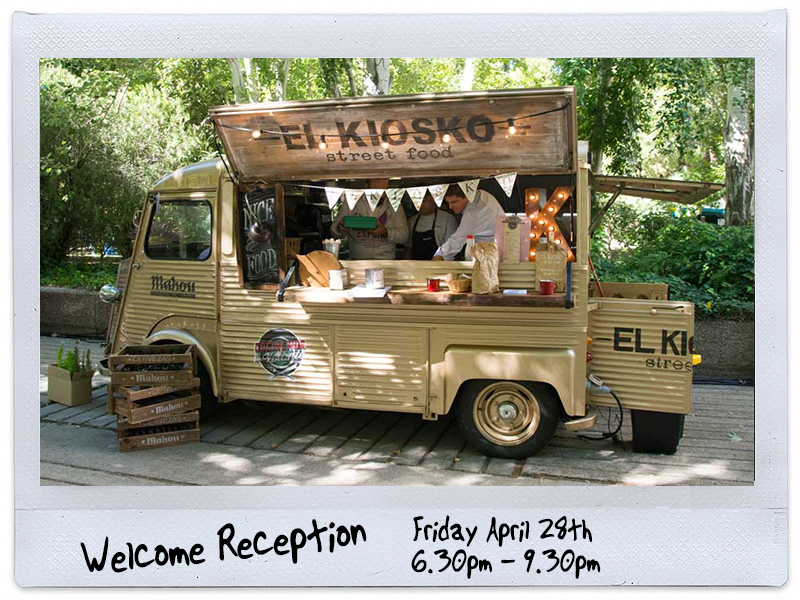
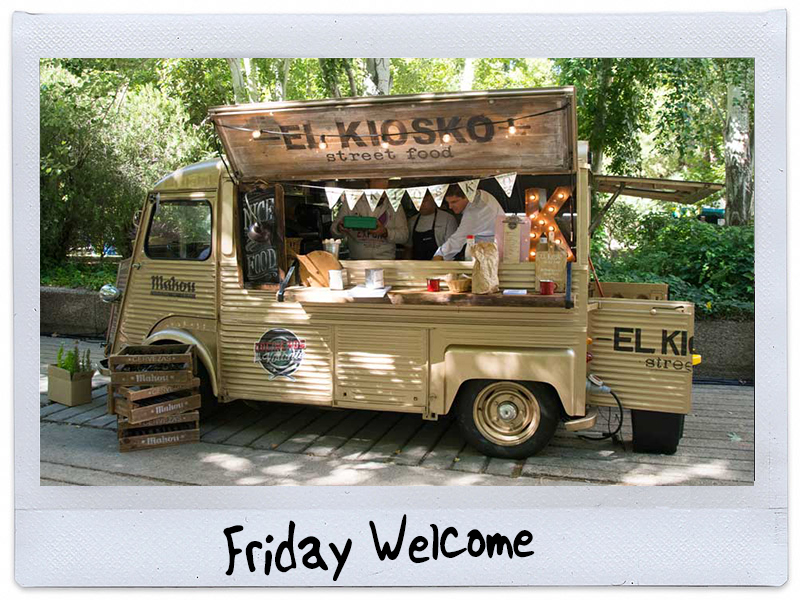
modify other.html

Changed region(s): [[0.0938, 0.84, 0.75, 0.96]]

diff --git a/en/other.html b/en/other.html
@@ -87,14 +87,33 @@
 	
     <!-- Page Content -->
     <div class="container cactus-baskerville">
-		
-        <div class="col-md-6 col-sm-12" style="padding-top: 30px;">
+	  <div class="row text-center"  style="padding: 25px;">
+	      <img id="friday-sign-small" class="hidden" src="../img/fridaySignSmall.jpg">		  	      
+		  <img id="friday-sign-big" src="../img/fridaySignBig.jpg">
+	      <img id="sunday-sign-small" src="../img/sundaySignSmall.jpg">		  	      
+		  <img id="sunday-sign-big" class="hidden" src="../img/sundaySignBig.jpg">
+		  
+	  </div>
+	  <div id="friday" class="row" style="padding: 25px;">	
+        <div class="col-md-6 col-sm-12 text-center" style="padding: 50px;">
+		    <p class="cactus-futura" style="font-size: 28px;"><strong>WELCOME RECEPTION</strong></p>	
+			<p style="padding-top:10px;">If you will be in the Austin area Friday evening, join us at the River House for <a target="_blank" href="http://www.huffingtonpost.com/one-for-the-table/a-look-at-austins-food-tr_b_2861623.html">food truck</a> fare, drinks and lawn games.</p>
+		    <p class="cactus-futura" style="font-size: 20px; padding-top: 15px;">FRIDAY, APRIL 28TH</br>6.30pm - 9.30pm</p></br>				
+		</div>
+        <div class="col-md-6 col-sm-12">
 			<img src="../img/foodtruck.jpg" width="100%"></img>
-			<p class="text-center" style="padding-top:10px;">If you will be in the Austin area Friday evening, join us at the River House for <a target="_blank" href="http://www.huffingtonpost.com/one-for-the-table/a-look-at-austins-food-tr_b_2861623.html">food truck</a> fare, drinks and games.</p>
-        </div>
+        </div>		
+	  </div>	
+		
+	  <div id="sunday" class="row hidden" style="padding: 25px;">			
+        <div class="col-md-6 col-sm-12 text-center" style="padding: 50px;">
+		    <p class="cactus-futura" style="font-size: 28px;"><strong>SUNDAY BRUNCH</strong></p>	
+			<p style="padding-top:10px;">No one should leave Austin without trying our iconic native food - <a target="_blank" href="http://austin.eater.com/2016/2/19/11060078/breakfast-taco-austin-history">breakfast tacos!</a> Sunday morning we'll have breakfast tacos and coffee at the River House.</p>
+		    <p class="cactus-futura" style="font-size: 20px; padding-top: 15px;">SUNDAY, APRIL 30TH</br>10am - 12am</p>	
+		</div>	  
         <div class="col-md-6 col-sm-12">
 			<img src="../img/breakfastTacos.jpg" height="100%"></img>		
-			<p class="text-center">No one should leave Austin without trying our iconic native food - <a target="_blank" href="http://austin.eater.com/2016/2/19/11060078/breakfast-taco-austin-history">breakfast tacos!</a> Sunday morning we'll have breakfast tacos and coffee at the River House.</p>
+			<p class="text-center"></p>
         </div>
 		
     </div>
@@ -112,6 +131,27 @@
     <!-- Bootstrap Core JavaScript -->
     <script src="../js/bootstrap.min.js"></script>
 
+    <script>
+	    $("#sunday-sign-small").mouseover(function () {
+			$("#friday-sign-small").removeClass("hidden");
+			$("#sunday-sign-big").removeClass("hidden");			
+			$("#friday-sign-big").addClass("hidden");			
+			$("#sunday-sign-small").addClass("hidden");	
+			$("#friday").addClass("hidden");			
+			$("#sunday").removeClass("hidden");
+        });	
+
+	    $("#friday-sign-small").mouseover(function () {
+			$("#friday-sign-small").addClass("hidden");
+			$("#sunday-sign-big").addClass("hidden");			
+			$("#friday-sign-big").removeClass("hidden");			
+			$("#sunday-sign-small").removeClass("hidden");	
+			$("#sunday").addClass("hidden");			
+			$("#friday").removeClass("hidden");			
+        });	
+		
+    </script>		
+	
  
 </body>
 

diff --git a/css/the-big-picture.css b/css/the-big-picture.css
@@ -75,3 +75,10 @@ body {
 	font-size: 50px;
     letter-spacing: 10px;	
 }
+
+#friday-sign-small,
+#friday-sign-big,
+#sunday-sign-small,
+#sunday-sign-big {
+    cursor: pointer;
+}
